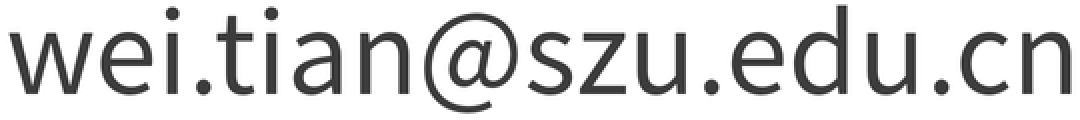
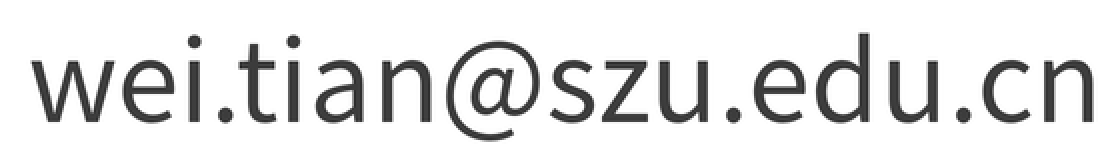
index

diff --git a/index.html b/index.html
@@ -4,7 +4,7 @@
 <head>
   <meta http-equiv="Content-Type" content="text/html; charset=UTF-8">
   <title>About · Wei Tian · SZU</title>
-  <meta name="author" content="Your Name">
+  <meta name="author" content="Wei Tian">
   <meta name="viewport" content="width=device-width, initial-scale=1">
   <meta name="description"
     content="Your Name - Your Title/Position. Brief description of your research interests and goals.">
@@ -241,6 +241,8 @@
 
       .profile-photo {
         margin-top: 0;
+        width: 160px;
+        height: 224px;
       }
 
     }
@@ -255,8 +257,9 @@
     <div class="profile-section">
       <div class="profile-text">
         <div class="name">Wei Tian</div>
-        <p class="position">Assistant Professor</p>
-        <p class="affiliation">
+        <p class="position">
+          Assistant Professor
+          <br>
           <a href="https://csse.szu.edu.cn/" target="_blank" rel="noopener noreferrer">College of Computer Science and
             Software Engineering</a>
           <br>

diff --git a/site-shell.js b/site-shell.js
@@ -143,9 +143,7 @@
     return `
   <div class="${getFooterClassName()}">
     <footer class="site-footer">
-      <div class="footer-social">${socialLinks}
-      </div>
-      <p class="footer-copyright">${getFooterCopy()}<span class="footer-credit">Thanks to <a href="https://xunjianyin.github.io/" target="_blank" rel="noopener">Xunjian Yin</a></span></p>
+      <div class="footer-social">${socialLinks}</div>
     </footer>
   </div>
   <button id="back-to-top" class="back-to-top" aria-label="Back to top">
